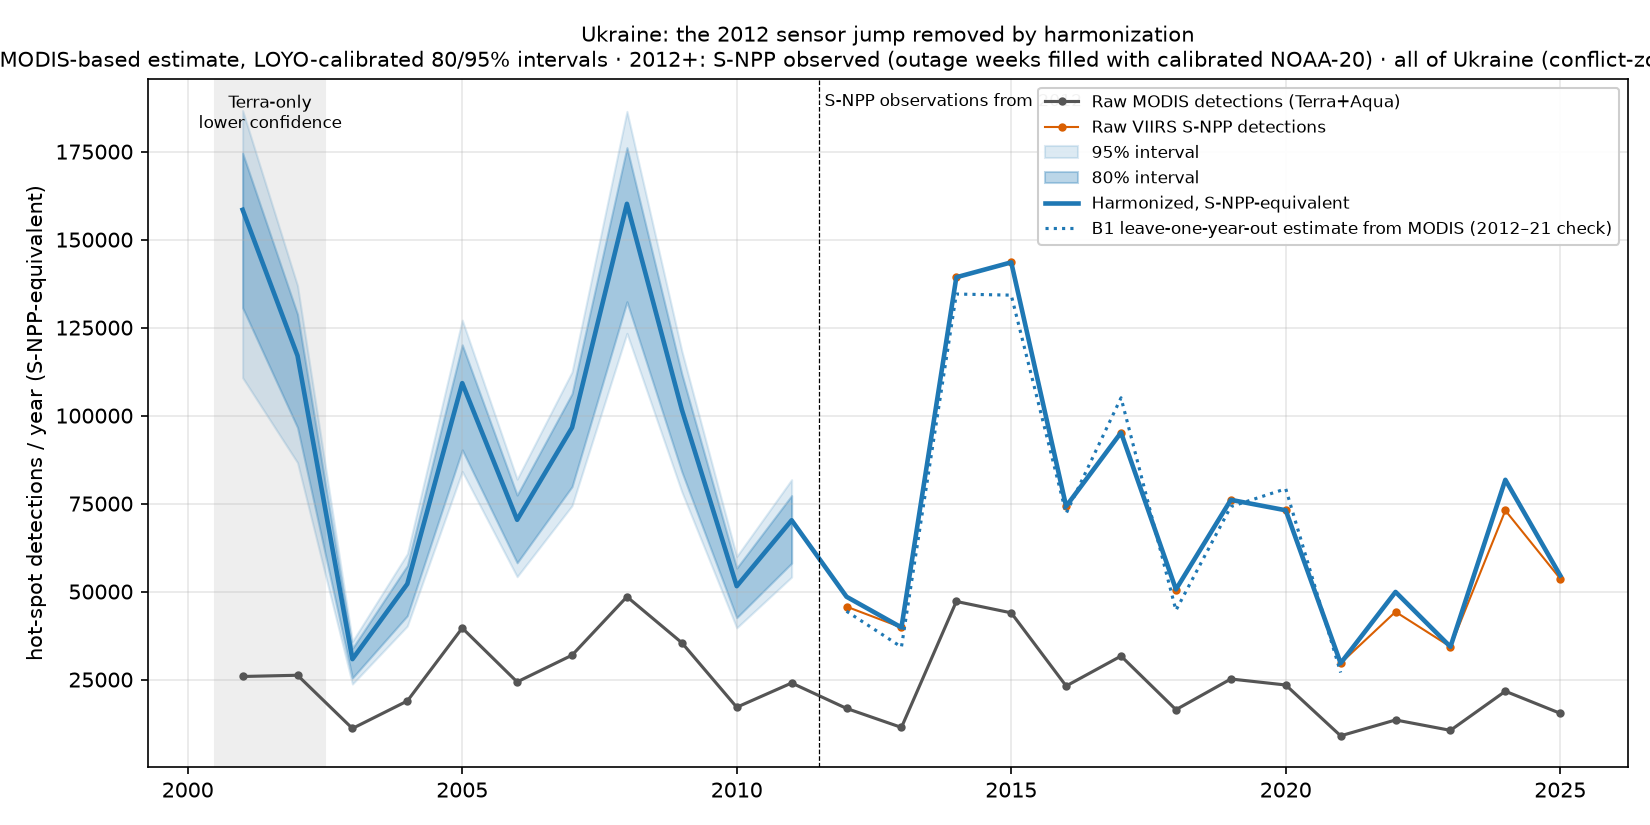
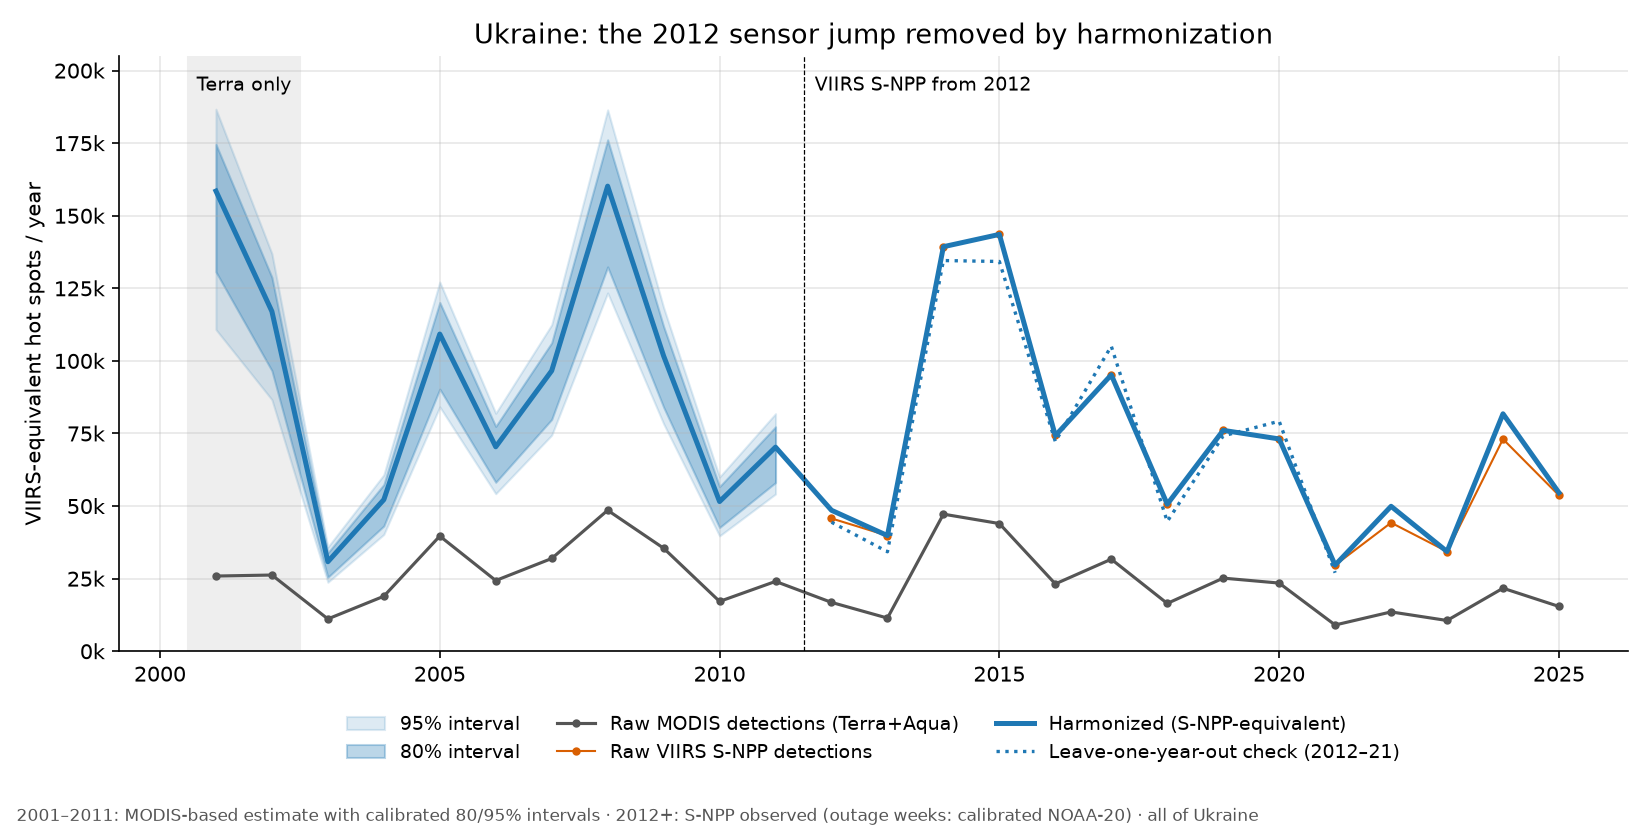
Figure 02: short title, legend below plot, VIIRS-equivalent unit label

diff --git a/src/make_figures.py b/src/make_figures.py
@@ -162,7 +162,40 @@ def kyiv_sources():
     save(fig, "08_kyiv_upwind_sources.png")
 
 
+def harmonized_vs_raw():
+    """Figure 02 (also drawn in stage2_final.py): raw MODIS, raw S-NPP and harmonized annual series, all of Ukraine."""
+    a = pd.read_csv(os.path.join(PROC, "ukraine_annual_harmonized.csv"), index_col=0).loc[2001:2025]
+    lp = pd.read_parquet(os.path.join(PROC, "loyo_ukr_week.parquet"))
+    lpa = lp[lp["model"] == "B1"].groupby("year")["pred"].sum()
+    fig, ax = plt.subplots(figsize=(11, 5.5))
+    ax.axvspan(2000.5, 2002.5, color="#eeeeee", zorder=0)
+    m = a.loc[:2011]
+    ax.fill_between(m.index, m["lo95"], m["hi95"], color="#1f78b4", alpha=0.15, label="95% interval")
+    ax.fill_between(m.index, m["lo80"], m["hi80"], color="#1f78b4", alpha=0.3, label="80% interval")
+    ax.plot(a.index, a["Terra"] + a["Aqua"], color="#555555", marker="o", ms=3, label="Raw MODIS detections (Terra+Aqua)")
+    sn = a.loc[2012:]
+    ax.plot(sn.index, sn["SNPP"], color="#d95f02", marker="o", ms=3, lw=1, label="Raw VIIRS S-NPP detections")
+    ax.plot(a.index, a["point"], color="#1f78b4", lw=2.4, label="Harmonized (S-NPP-equivalent)")
+    ax.plot(lpa.index, lpa.values, color="#1f78b4", ls=":", lw=1.6, label="Leave-one-year-out check (2012–21)")
+    ax.axvline(2011.5, color="k", lw=0.6, ls="--")
+    ax.set_ylim(0, 205000)
+    ax.text(2001.5, 198000, "Terra only", ha="center", va="top", fontsize=9)
+    ax.text(2011.7, 198000, "VIIRS S-NPP from 2012", fontsize=9, va="top")
+    ax.set_ylabel(f"{UNIT} / year")
+    ax.yaxis.set_major_formatter(matplotlib.ticker.FuncFormatter(lambda v, _: f"{v / 1000:.0f}k"))
+    ax.set_title("Ukraine: the 2012 sensor jump removed by harmonization", fontsize=13)
+    ax.legend(fontsize=9, loc="upper center", bbox_to_anchor=(0.5, -0.08), ncol=3, frameon=False)
+    ax.grid(alpha=0.3)
+    fig.text(0.01, 0.005, "2001–2011: MODIS-based estimate with calibrated 80/95% intervals · 2012+: S-NPP observed "
+             "(outage weeks: calibrated NOAA-20) · all of Ukraine", fontsize=8, color="#555555")
+    fig.tight_layout(rect=(0, 0.03, 1, 1))
+    fig.savefig(os.path.join(FIG, "02_harmonized_vs_raw_ukraine.png"), dpi=150)
+    plt.close(fig)
+    print("saved 02")
+
+
 if __name__ == "__main__":
+    harmonized_vs_raw()
     validation_table()
     w = ukraine_weekly()
     calendar_heatmap(w)

diff --git a/src/stage2_final.py b/src/stage2_final.py
@@ -232,12 +232,9 @@ def main():
     ax.text(2001.5, ymax * 0.98, "Terra-only\nlower confidence", ha="center", va="top", fontsize=8)
     ax.axvline(2011.5, color="k", lw=0.6, ls="--")
     ax.text(2011.6, ymax * 0.98, "S-NPP observations from 2012", fontsize=8, va="top")
-    ax.set_ylabel("hot-spot detections / year (S-NPP-equivalent)")
-    ax.set_title("Ukraine: the 2012 sensor jump removed by harmonization\n"
-                 "2001–2011: MODIS-based estimate, LOYO-calibrated 80/95% intervals · 2012+: S-NPP observed "
-                 "(outage weeks filled with calibrated NOAA-20) · "
-                 "all of Ukraine (conflict-zone detections included)", fontsize=10)
-    ax.legend(fontsize=8, loc="upper right", framealpha=0.95)
+    ax.set_ylabel("VIIRS-equivalent hot spots / year")
+    ax.set_title("Ukraine: the 2012 sensor jump removed by harmonization", fontsize=13)
+    ax.legend(fontsize=9, loc="upper center", bbox_to_anchor=(0.5, -0.08), ncol=3, frameon=False)
     ax.grid(alpha=0.3)
     fig.tight_layout()
     fig.savefig(os.path.join(FIG, "02_harmonized_vs_raw_ukraine.png"), dpi=150)
